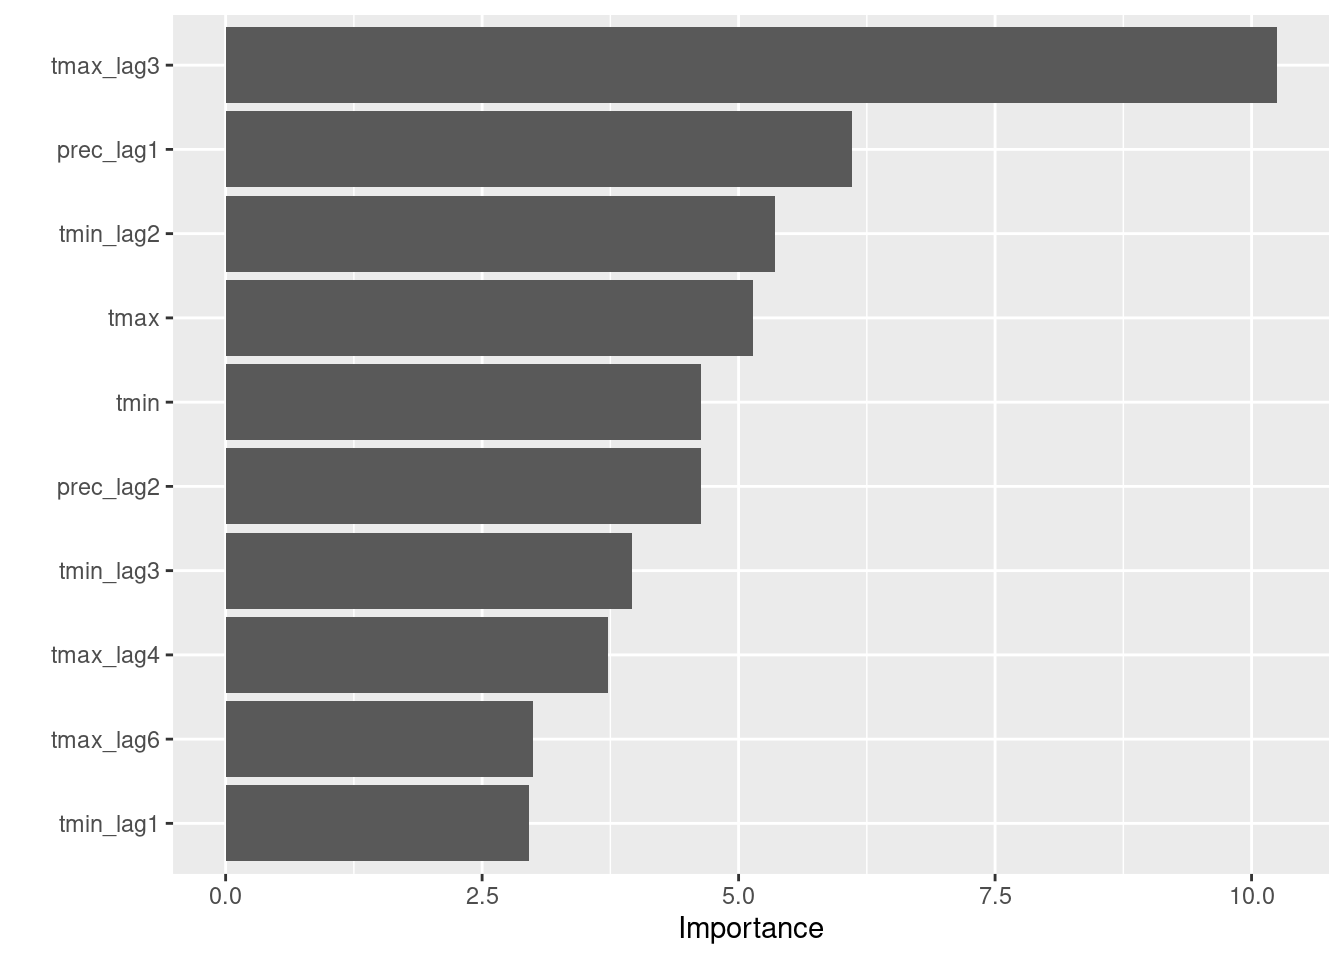
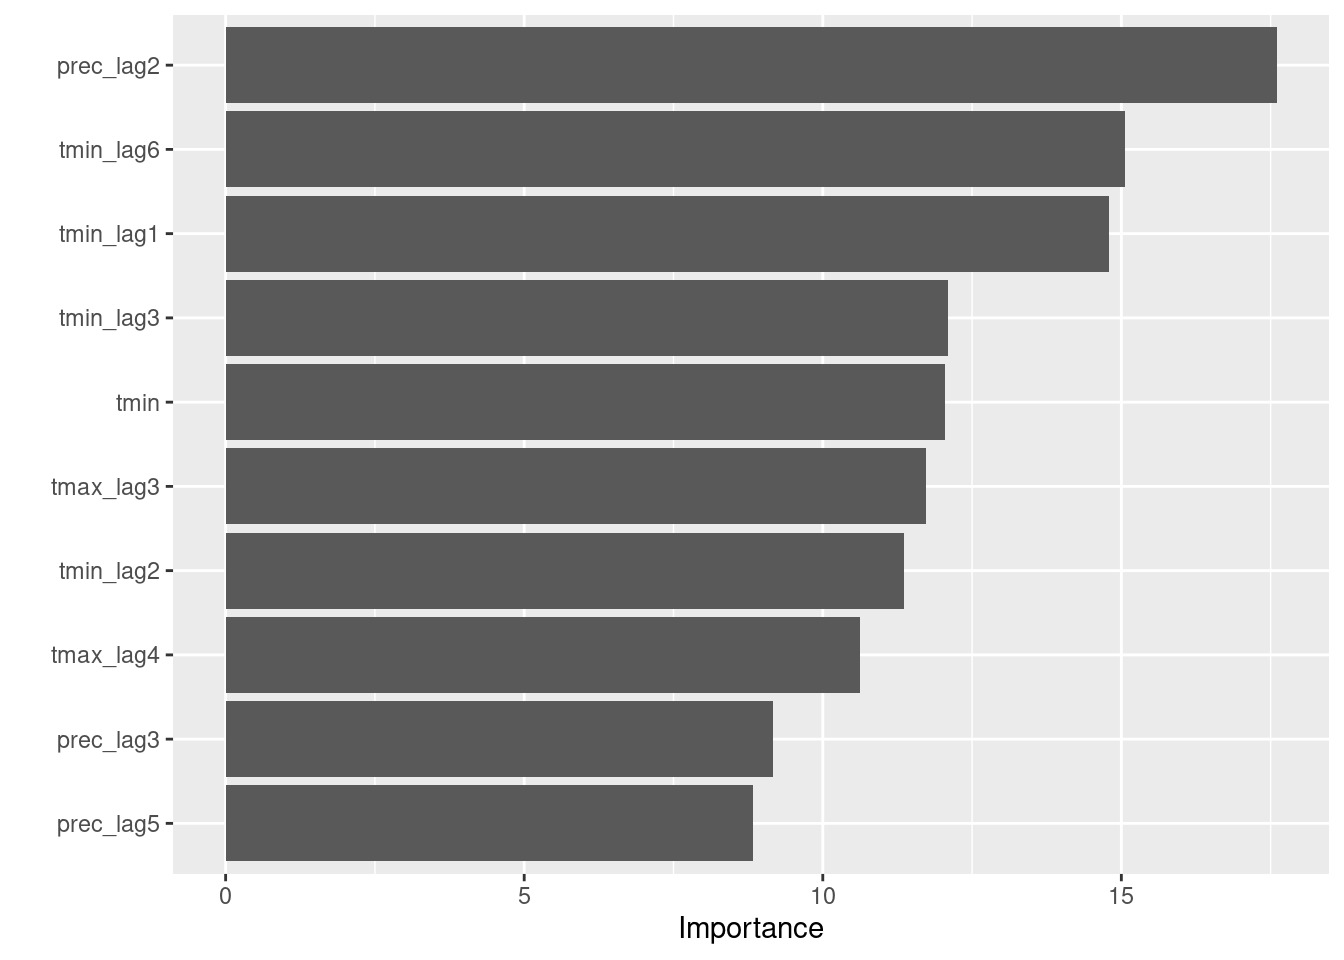
Other run

diff --git a/docs/dengue-model/dengue_weather_lag_class_v2.html b/docs/dengue-model/dengue_weather_lag_class_v2.html
@@ -768,8 +768,8 @@ gtag('config', 'G-ZMP18L536K', { 'anonymize_ip': true});
 <div class="sourceCode cell-code" id="cb13"><pre class="sourceCode r code-with-copy"><code class="sourceCode r"><span id="cb13-1"><a href="#cb13-1" aria-hidden="true" tabindex="-1"></a><span class="fu">head</span>(res_prep) <span class="sc">%&gt;%</span> <span class="fu">datatable</span>()</span></code><button title="Copy to Clipboard" class="code-copy-button"><i class="bi"></i></button></pre></div>
 <div class="cell-output-display">
 
-<div class="datatables html-widget html-fill-item" id="htmlwidget-e64637295dad64ddd11c" style="width:100%;height:auto;"></div>
-<script type="application/json" data-for="htmlwidget-e64637295dad64ddd11c">{"x":{"filter":"none","vertical":false,"data":[["1","2","3","4","5","6"],["Yes","No","No","No","Yes","Yes"],[26.72544769395087,28.43298173165642,29.60773389586817,29.49653405719427,29.34070379908771,30.49403274560354],[15.18916207733414,15.90763421604706,16.4951430635698,18.85585107572839,18.8123191876364,19.79762454912082],[7814524.978378296,6506432.747368097,5800428.126594543,17873537.89751434,18058934.51061773,20740964.07329464],[26.17385351467693,26.72544769395087,28.43298173165642,29.60773389586817,29.49653405719427,29.34070379908771],[14.96317995583027,15.18916207733414,15.90763421604706,16.4951430635698,18.85585107572839,18.8123191876364],[8046288.766040802,7814524.978378296,6506432.747368097,5800428.126594543,17873537.89751434,18058934.51061773],[26.8724566848724,26.17385351467693,26.72544769395087,28.43298173165642,29.60773389586817,29.49653405719427],[16.7187942733731,14.96317995583027,15.18916207733414,15.90763421604706,16.4951430635698,18.85585107572839],[13694424.00654602,8046288.766040802,7814524.978378296,6506432.747368097,5800428.126594543,17873537.89751434],[28.9565583609528,26.8724566848724,26.17385351467693,26.72544769395087,28.43298173165642,29.60773389586817],[19.03550848089506,16.7187942733731,14.96317995583027,15.18916207733414,15.90763421604706,16.4951430635698],[22400879.77679062,13694424.00654602,8046288.766040802,7814524.978378296,6506432.747368097,5800428.126594543],[29.35255993066393,28.9565583609528,26.8724566848724,26.17385351467693,26.72544769395087,28.43298173165642],[20.22448844413397,19.03550848089506,16.7187942733731,14.96317995583027,15.18916207733414,15.90763421604706],[30775654.30288982,22400879.77679062,13694424.00654602,8046288.766040802,7814524.978378296,6506432.747368097],[30.56590001543757,29.35255993066393,28.9565583609528,26.8724566848724,26.17385351467693,26.72544769395087],[20.71001601205695,20.22448844413397,19.03550848089506,16.7187942733731,14.96317995583027,15.18916207733414],[27648413.46569633,30775654.30288982,22400879.77679062,13694424.00654602,8046288.766040802,7814524.978378296],[30.51610272405794,30.56590001543757,29.35255993066393,28.9565583609528,26.8724566848724,26.17385351467693],[20.72152767214717,20.71001601205695,20.22448844413397,19.03550848089506,16.7187942733731,14.96317995583027],[29442223.41576958,27648413.46569633,30775654.30288982,22400879.77679062,13694424.00654602,8046288.766040802]],"container":"<table class=\"display\">\n  <thead>\n    <tr>\n      <th> <\/th>\n      <th>anomaly<\/th>\n      <th>tmax<\/th>\n      <th>tmin<\/th>\n      <th>prec<\/th>\n      <th>tmax_lag1<\/th>\n      <th>tmin_lag1<\/th>\n      <th>prec_lag1<\/th>\n      <th>tmax_lag2<\/th>\n      <th>tmin_lag2<\/th>\n      <th>prec_lag2<\/th>\n      <th>tmax_lag3<\/th>\n      <th>tmin_lag3<\/th>\n      <th>prec_lag3<\/th>\n      <th>tmax_lag4<\/th>\n      <th>tmin_lag4<\/th>\n      <th>prec_lag4<\/th>\n      <th>tmax_lag5<\/th>\n      <th>tmin_lag5<\/th>\n      <th>prec_lag5<\/th>\n      <th>tmax_lag6<\/th>\n      <th>tmin_lag6<\/th>\n      <th>prec_lag6<\/th>\n    <\/tr>\n  <\/thead>\n<\/table>","options":{"columnDefs":[{"className":"dt-right","targets":[2,3,4,5,6,7,8,9,10,11,12,13,14,15,16,17,18,19,20,21,22]},{"orderable":false,"targets":0},{"name":" ","targets":0},{"name":"anomaly","targets":1},{"name":"tmax","targets":2},{"name":"tmin","targets":3},{"name":"prec","targets":4},{"name":"tmax_lag1","targets":5},{"name":"tmin_lag1","targets":6},{"name":"prec_lag1","targets":7},{"name":"tmax_lag2","targets":8},{"name":"tmin_lag2","targets":9},{"name":"prec_lag2","targets":10},{"name":"tmax_lag3","targets":11},{"name":"tmin_lag3","targets":12},{"name":"prec_lag3","targets":13},{"name":"tmax_lag4","targets":14},{"name":"tmin_lag4","targets":15},{"name":"prec_lag4","targets":16},{"name":"tmax_lag5","targets":17},{"name":"tmin_lag5","targets":18},{"name":"prec_lag5","targets":19},{"name":"tmax_lag6","targets":20},{"name":"tmin_lag6","targets":21},{"name":"prec_lag6","targets":22}],"order":[],"autoWidth":false,"orderClasses":false}},"evals":[],"jsHooks":[]}</script>
+<div class="datatables html-widget html-fill-item" id="htmlwidget-60ec32ebaf19d020451d" style="width:100%;height:auto;"></div>
+<script type="application/json" data-for="htmlwidget-60ec32ebaf19d020451d">{"x":{"filter":"none","vertical":false,"data":[["1","2","3","4","5","6"],["Yes","No","No","No","Yes","Yes"],[26.72544769395087,28.43298173165642,29.60773389586817,29.49653405719427,29.34070379908771,30.49403274560354],[15.18916207733414,15.90763421604706,16.4951430635698,18.85585107572839,18.8123191876364,19.79762454912082],[7814524.978378296,6506432.747368097,5800428.126594543,17873537.89751434,18058934.51061773,20740964.07329464],[26.17385351467693,26.72544769395087,28.43298173165642,29.60773389586817,29.49653405719427,29.34070379908771],[14.96317995583027,15.18916207733414,15.90763421604706,16.4951430635698,18.85585107572839,18.8123191876364],[8046288.766040802,7814524.978378296,6506432.747368097,5800428.126594543,17873537.89751434,18058934.51061773],[26.8724566848724,26.17385351467693,26.72544769395087,28.43298173165642,29.60773389586817,29.49653405719427],[16.7187942733731,14.96317995583027,15.18916207733414,15.90763421604706,16.4951430635698,18.85585107572839],[13694424.00654602,8046288.766040802,7814524.978378296,6506432.747368097,5800428.126594543,17873537.89751434],[28.9565583609528,26.8724566848724,26.17385351467693,26.72544769395087,28.43298173165642,29.60773389586817],[19.03550848089506,16.7187942733731,14.96317995583027,15.18916207733414,15.90763421604706,16.4951430635698],[22400879.77679062,13694424.00654602,8046288.766040802,7814524.978378296,6506432.747368097,5800428.126594543],[29.35255993066393,28.9565583609528,26.8724566848724,26.17385351467693,26.72544769395087,28.43298173165642],[20.22448844413397,19.03550848089506,16.7187942733731,14.96317995583027,15.18916207733414,15.90763421604706],[30775654.30288982,22400879.77679062,13694424.00654602,8046288.766040802,7814524.978378296,6506432.747368097],[30.56590001543757,29.35255993066393,28.9565583609528,26.8724566848724,26.17385351467693,26.72544769395087],[20.71001601205695,20.22448844413397,19.03550848089506,16.7187942733731,14.96317995583027,15.18916207733414],[27648413.46569633,30775654.30288982,22400879.77679062,13694424.00654602,8046288.766040802,7814524.978378296],[30.51610272405794,30.56590001543757,29.35255993066393,28.9565583609528,26.8724566848724,26.17385351467693],[20.72152767214717,20.71001601205695,20.22448844413397,19.03550848089506,16.7187942733731,14.96317995583027],[29442223.41576958,27648413.46569633,30775654.30288982,22400879.77679062,13694424.00654602,8046288.766040802]],"container":"<table class=\"display\">\n  <thead>\n    <tr>\n      <th> <\/th>\n      <th>anomaly<\/th>\n      <th>tmax<\/th>\n      <th>tmin<\/th>\n      <th>prec<\/th>\n      <th>tmax_lag1<\/th>\n      <th>tmin_lag1<\/th>\n      <th>prec_lag1<\/th>\n      <th>tmax_lag2<\/th>\n      <th>tmin_lag2<\/th>\n      <th>prec_lag2<\/th>\n      <th>tmax_lag3<\/th>\n      <th>tmin_lag3<\/th>\n      <th>prec_lag3<\/th>\n      <th>tmax_lag4<\/th>\n      <th>tmin_lag4<\/th>\n      <th>prec_lag4<\/th>\n      <th>tmax_lag5<\/th>\n      <th>tmin_lag5<\/th>\n      <th>prec_lag5<\/th>\n      <th>tmax_lag6<\/th>\n      <th>tmin_lag6<\/th>\n      <th>prec_lag6<\/th>\n    <\/tr>\n  <\/thead>\n<\/table>","options":{"columnDefs":[{"className":"dt-right","targets":[2,3,4,5,6,7,8,9,10,11,12,13,14,15,16,17,18,19,20,21,22]},{"orderable":false,"targets":0},{"name":" ","targets":0},{"name":"anomaly","targets":1},{"name":"tmax","targets":2},{"name":"tmin","targets":3},{"name":"prec","targets":4},{"name":"tmax_lag1","targets":5},{"name":"tmin_lag1","targets":6},{"name":"prec_lag1","targets":7},{"name":"tmax_lag2","targets":8},{"name":"tmin_lag2","targets":9},{"name":"prec_lag2","targets":10},{"name":"tmax_lag3","targets":11},{"name":"tmin_lag3","targets":12},{"name":"prec_lag3","targets":13},{"name":"tmax_lag4","targets":14},{"name":"tmin_lag4","targets":15},{"name":"prec_lag4","targets":16},{"name":"tmax_lag5","targets":17},{"name":"tmin_lag5","targets":18},{"name":"prec_lag5","targets":19},{"name":"tmax_lag6","targets":20},{"name":"tmin_lag6","targets":21},{"name":"prec_lag6","targets":22}],"order":[],"autoWidth":false,"orderClasses":false}},"evals":[],"jsHooks":[]}</script>
 </div>
 </div>
 </section>
@@ -792,8 +792,8 @@ gtag('config', 'G-ZMP18L536K', { 'anonymize_ip': true});
 <span id="cb15-2"><a href="#cb15-2" aria-hidden="true" tabindex="-1"></a><span class="fu">gc</span>()</span></code><button title="Copy to Clipboard" class="code-copy-button"><i class="bi"></i></button></pre></div>
 <div class="cell-output cell-output-stdout">
 <pre><code>          used  (Mb) gc trigger   (Mb)  max used   (Mb)
-Ncells 3036333 162.2    4446408  237.5   4446408  237.5
-Vcells 5284643  40.4  404031258 3082.6 679123734 5181.4</code></pre>
+Ncells 3036496 162.2    4447765  237.6   4447765  237.6
+Vcells 5285019  40.4  404031489 3082.6 679124110 5181.4</code></pre>
 </div>
 </div>
 </section>
@@ -906,49 +906,49 @@ Vcells 5284643  40.4  404031258 3082.6 679123734 5181.4</code></pre>
 <pre><code>i 1 of 8 tuning:     upsample_dt_rp</code></pre>
 </div>
 <div class="cell-output cell-output-stderr">
-<pre><code>✔ 1 of 8 tuning:     upsample_dt_rp (8.4s)</code></pre>
+<pre><code>✔ 1 of 8 tuning:     upsample_dt_rp (9.3s)</code></pre>
 </div>
 <div class="cell-output cell-output-stderr">
 <pre><code>i 2 of 8 tuning:     upsample_dt_pk</code></pre>
 </div>
 <div class="cell-output cell-output-stderr">
-<pre><code>✔ 2 of 8 tuning:     upsample_dt_pk (4.5s)</code></pre>
+<pre><code>✔ 2 of 8 tuning:     upsample_dt_pk (5.5s)</code></pre>
 </div>
 <div class="cell-output cell-output-stderr">
 <pre><code>i 3 of 8 tuning:     rose_dt_rp</code></pre>
 </div>
 <div class="cell-output cell-output-stderr">
-<pre><code>✔ 3 of 8 tuning:     rose_dt_rp (7.8s)</code></pre>
+<pre><code>✔ 3 of 8 tuning:     rose_dt_rp (7.6s)</code></pre>
 </div>
 <div class="cell-output cell-output-stderr">
 <pre><code>i 4 of 8 tuning:     rose_dt_pk</code></pre>
 </div>
 <div class="cell-output cell-output-stderr">
-<pre><code>✔ 4 of 8 tuning:     rose_dt_pk (7.3s)</code></pre>
+<pre><code>✔ 4 of 8 tuning:     rose_dt_pk (8.7s)</code></pre>
 </div>
 <div class="cell-output cell-output-stderr">
 <pre><code>i 5 of 8 tuning:     smote_dt_rp</code></pre>
 </div>
 <div class="cell-output cell-output-stderr">
-<pre><code>✔ 5 of 8 tuning:     smote_dt_rp (8.8s)</code></pre>
+<pre><code>✔ 5 of 8 tuning:     smote_dt_rp (8.7s)</code></pre>
 </div>
 <div class="cell-output cell-output-stderr">
 <pre><code>i 6 of 8 tuning:     smote_dt_pk</code></pre>
 </div>
 <div class="cell-output cell-output-stderr">
-<pre><code>✔ 6 of 8 tuning:     smote_dt_pk (8.2s)</code></pre>
+<pre><code>✔ 6 of 8 tuning:     smote_dt_pk (10.7s)</code></pre>
 </div>
 <div class="cell-output cell-output-stderr">
 <pre><code>i 7 of 8 tuning:     adasyn_dt_rp</code></pre>
 </div>
 <div class="cell-output cell-output-stderr">
-<pre><code>✔ 7 of 8 tuning:     adasyn_dt_rp (8.3s)</code></pre>
+<pre><code>✔ 7 of 8 tuning:     adasyn_dt_rp (6.8s)</code></pre>
 </div>
 <div class="cell-output cell-output-stderr">
 <pre><code>i 8 of 8 tuning:     adasyn_dt_pk</code></pre>
 </div>
 <div class="cell-output cell-output-stderr">
-<pre><code>✔ 8 of 8 tuning:     adasyn_dt_pk (7.5s)</code></pre>
+<pre><code>✔ 8 of 8 tuning:     adasyn_dt_pk (9.8s)</code></pre>
 </div>
 </div>
 </section>
@@ -996,22 +996,22 @@ Vcells 5284643  40.4  404031258 3082.6 679123734 5181.4</code></pre>
 </div>
 <div class="cell-output cell-output-stdout">
 <pre><code>$obj
-n= 123 
+n= 158 
 
 node), split, n, loss, yval, (yprob)
       * denotes terminal node
 
- 1) root 123 56 No (0.54471545 0.45528455)  
-   2) tmax_lag3&lt; 29.10174 44  8 No (0.81818182 0.18181818)  
-     4) tmax&gt;=27.50049 37  3 No (0.91891892 0.08108108) *
-     5) tmax&lt; 27.50049 7  2 Yes (0.28571429 0.71428571) *
-   3) tmax_lag3&gt;=29.10174 79 31 Yes (0.39240506 0.60759494)  
-     6) tmin&gt;=21.57711 11  2 No (0.81818182 0.18181818) *
-     7) tmin&lt; 21.57711 68 22 Yes (0.32352941 0.67647059)  
-      14) prec_lag1&lt; 1.117271e+07 7  2 No (0.71428571 0.28571429) *
-      15) prec_lag1&gt;=1.117271e+07 61 17 Yes (0.27868852 0.72131148)  
-        30) tmax_lag6&gt;=32.09391 7  2 No (0.71428571 0.28571429) *
-        31) tmax_lag6&lt; 32.09391 54 12 Yes (0.22222222 0.77777778) *
+ 1) root 158 79 No (0.50000000 0.50000000)  
+   2) prec_lag2&lt; 1.366627e+07 44  6 No (0.86363636 0.13636364)  
+     4) prec_lag5&gt;=8110662 36  0 No (1.00000000 0.00000000) *
+     5) prec_lag5&lt; 8110662 8  2 Yes (0.25000000 0.75000000) *
+   3) prec_lag2&gt;=1.366627e+07 114 41 Yes (0.35964912 0.64035088)  
+     6) tmin_lag1&gt;=20.62648 14  1 No (0.92857143 0.07142857) *
+     7) tmin_lag1&lt; 20.62648 100 28 Yes (0.28000000 0.72000000)  
+      14) tmin_lag6&gt;=20.35152 15  3 No (0.80000000 0.20000000) *
+      15) tmin_lag6&lt; 20.35152 85 16 Yes (0.18823529 0.81176471)  
+        30) tmin&gt;=20.51675 8  3 No (0.62500000 0.37500000) *
+        31) tmin&lt; 20.51675 77 11 Yes (0.14285714 0.85714286) *
 
 $snipped.nodes
 NULL
@@ -1051,9 +1051,9 @@ y 0.1238633 0.4038739 0.1238633 0.1238633
   0.4409521 0.4409521 0.2409445 0.2409445
 
 $labs
- [1] "No\n0.46\n100%" "No\n0.18\n36%"  "No\n0.08\n30%"  "Yes\n0.71\n6%" 
- [5] "Yes\n0.61\n64%" "No\n0.18\n9%"   "Yes\n0.68\n55%" "No\n0.29\n6%"  
- [9] "Yes\n0.72\n50%" "No\n0.29\n6%"   "Yes\n0.78\n44%"
+ [1] "No\n0.50\n100%" "No\n0.14\n28%"  "No\n0.00\n23%"  "Yes\n0.75\n5%" 
+ [5] "Yes\n0.64\n72%" "No\n0.07\n9%"   "Yes\n0.72\n63%" "No\n0.20\n9%"  
+ [9] "Yes\n0.81\n54%" "No\n0.37\n5%"   "Yes\n0.86\n49%"
 
 $cex
 [1] 0.865625
@@ -1085,16 +1085,16 @@ $split.cex
 
 $split.box
 $split.box$x1
- [1] 0.25457615 0.05591035         NA         NA 0.50182150         NA
- [7] 0.62297506         NA 0.77278283         NA         NA
+ [1] 0.237956834 0.006052398          NA          NA 0.471991951          NA
+ [7] 0.635333018          NA 0.805169193          NA          NA
 
 $split.box$y1
  [1] 0.8165107 0.6165031        NA        NA 0.6165031        NA 0.4164956
  [8]        NA 0.2164880        NA        NA
 
 $split.box$x2
- [1] 0.4420762 0.1973876        NA        NA 0.6381851        NA 0.8437137
- [8]        NA 0.9739192        NA        NA
+ [1] 0.4586955 0.2472456        NA        NA 0.6680147        NA 0.8313557
+ [8]        NA 0.9415328        NA        NA
 
 $split.box$y2
  [1] 0.8654237 0.6654162        NA        NA 0.6654162        NA 0.4654086
@@ -1110,8 +1110,8 @@ $split.box$y2
 <div class="cell-output cell-output-stdout">
 <pre><code>          Truth
 Prediction No Yes
-       No  10   0
-       Yes 14   4</code></pre>
+       No  18   1
+       Yes  6   3</code></pre>
 </div>
 </div>
 </section>
@@ -1124,10 +1124,10 @@ Prediction No Yes
 <pre><code># A tibble: 4 × 3
   .metric     .estimator .estimate
   &lt;chr&gt;       &lt;chr&gt;          &lt;dbl&gt;
-1 accuracy    binary         0.5  
-2 kap         binary         0.169
-3 mn_log_loss binary         1.15 
-4 roc_auc     binary         0.271</code></pre>
+1 accuracy    binary         0.75 
+2 kap         binary         0.329
+3 mn_log_loss binary        10.0  
+4 roc_auc     binary         0.203</code></pre>
 </div>
 </div>
 </section>
@@ -1204,14 +1204,14 @@ loaded via a namespace (and not attached):
 [49] generics_0.1.3      hms_1.1.3           munsell_0.5.0      
 [52] minqa_1.2.6         globals_0.16.2      class_7.3-22       
 [55] glue_1.7.0          tools_4.3.2         data.table_1.14.10 
-[58] lme4_1.1-35.1       gower_1.0.1         crosstalk_1.2.1    
-[61] ipred_0.9-14        colorspace_2.1-0    nlme_3.1-163       
-[64] Formula_1.2-5       cli_3.6.2           DiceDesign_1.10    
-[67] fansi_1.0.6         lava_1.7.3          gtable_0.3.4       
-[70] GPfit_1.0-8         sass_0.4.8          digest_0.6.34      
-[73] farver_2.1.1        htmlwidgets_1.6.4   htmltools_0.5.7    
-[76] lifecycle_1.0.4     hardhat_1.3.0       bit64_4.0.5        
-[79] MASS_7.3-60        </code></pre>
+[58] lme4_1.1-35.1       gower_1.0.1         RANN_2.6.1         
+[61] crosstalk_1.2.1     ipred_0.9-14        colorspace_2.1-0   
+[64] nlme_3.1-163        Formula_1.2-5       cli_3.6.2          
+[67] DiceDesign_1.10     fansi_1.0.6         lava_1.7.3         
+[70] gtable_0.3.4        GPfit_1.0-8         sass_0.4.8         
+[73] digest_0.6.34       farver_2.1.1        htmlwidgets_1.6.4  
+[76] htmltools_0.5.7     lifecycle_1.0.4     hardhat_1.3.0      
+[79] bit64_4.0.5         MASS_7.3-60        </code></pre>
 </div>
 </div>
 
